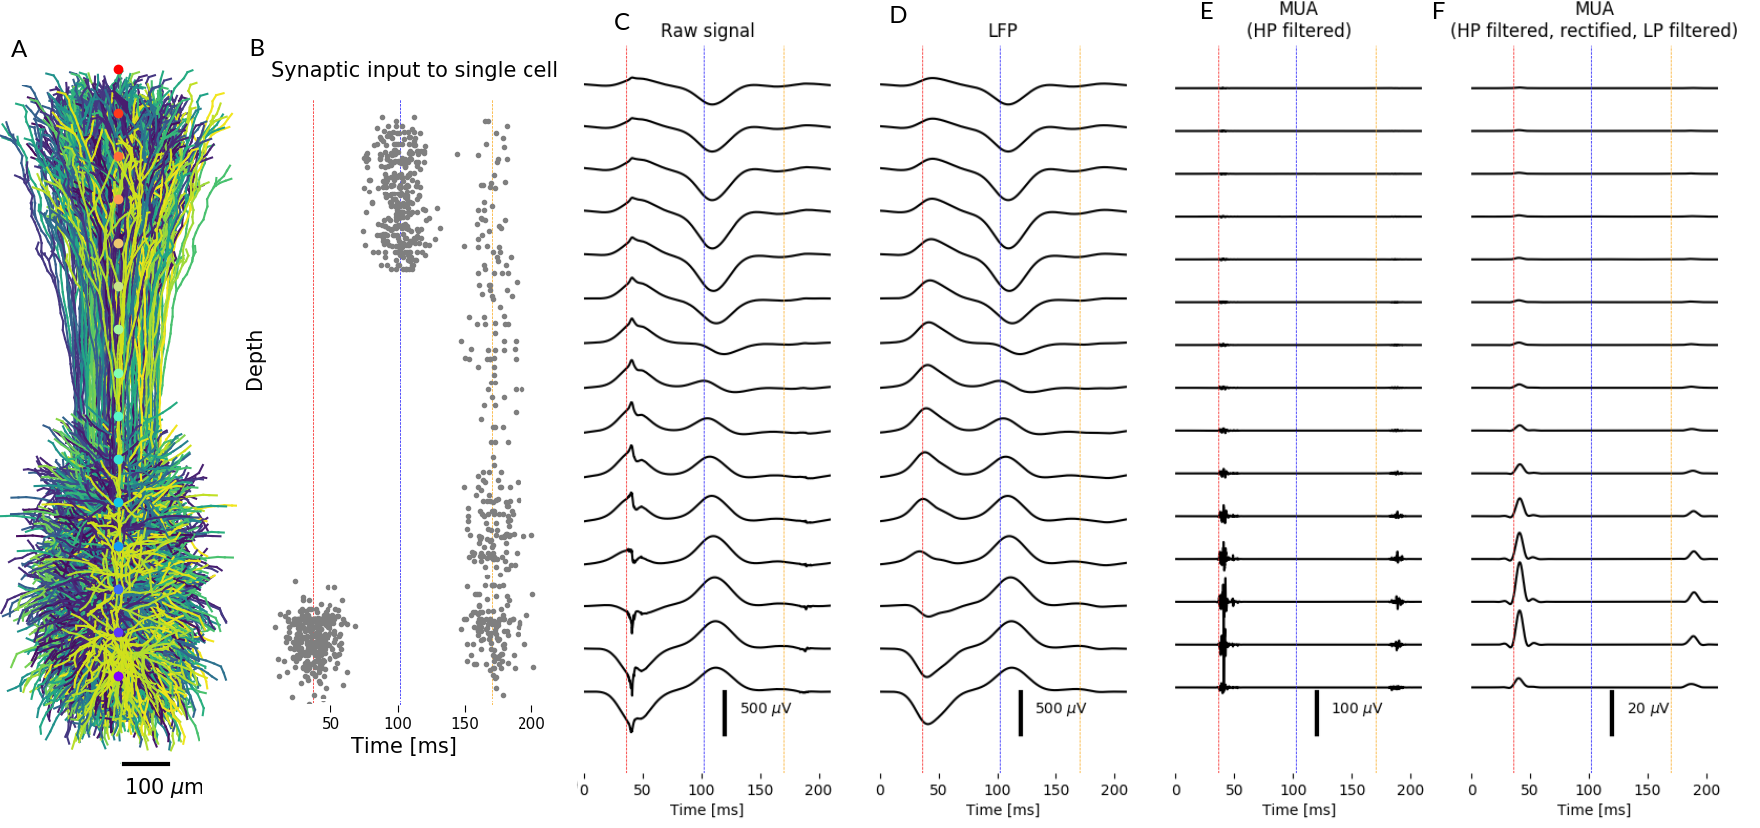
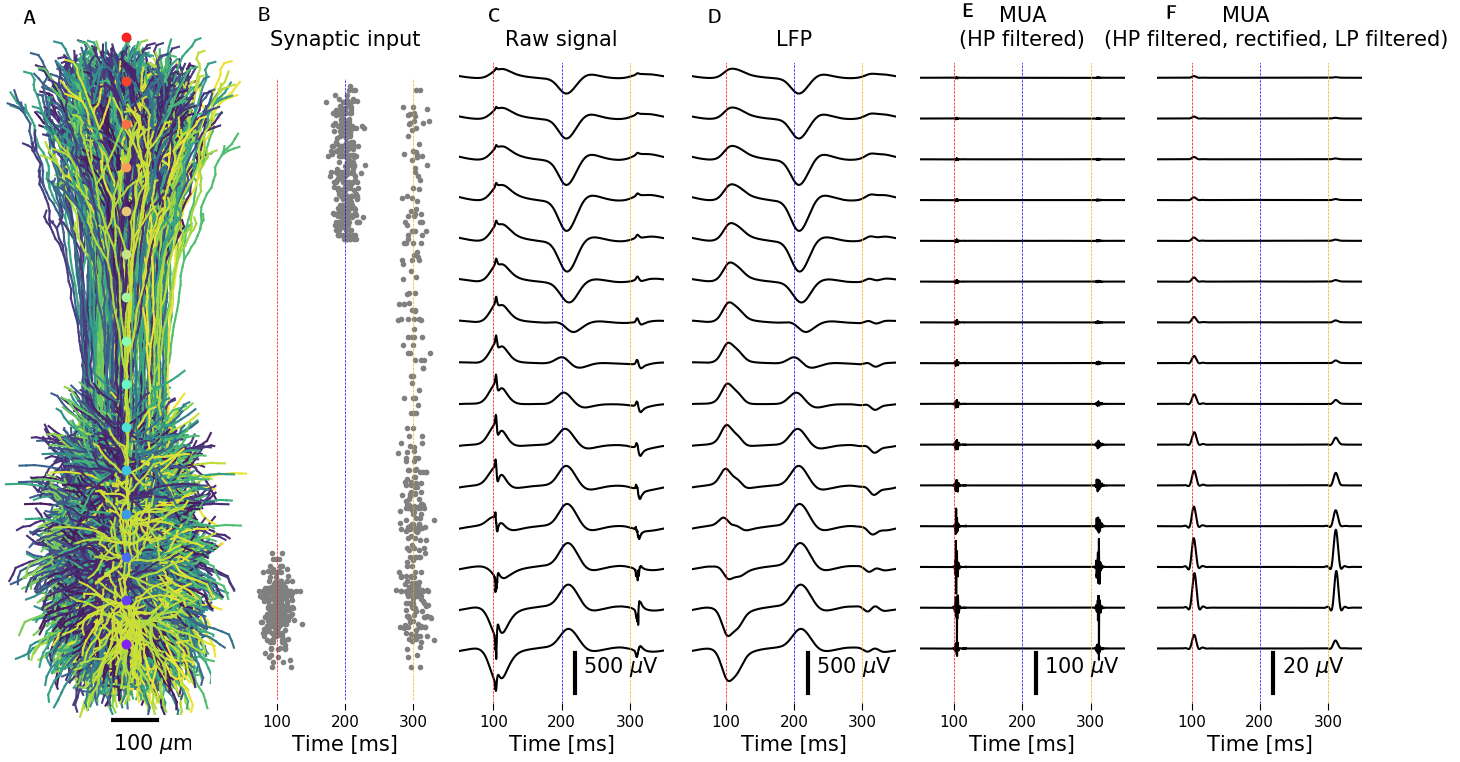
Updated figure

diff --git a/ECS_bookchapter.tex b/ECS_bookchapter.tex
@@ -439,7 +439,7 @@ The low frequency part, that is, the local field potential (LFP), is thought to 
 \end{center}
 \caption{\textbf{Extracellular potentials from different waves of synaptic input}. Different brain signals from separate waves of synaptic input to 10 000 layer 5 pyramidal cells from rat \citep{Hay2011}.
 {\bf A}: A subset of 100 pyramidal cells, with the LFP electrode locations indicated in the center (colored dots).
-{\bf B}: Depth-resolved synaptic inputs arrive in three waves, first targeting the basal dendrites (t=$\sim$60~ms), then the apical dendrites (t=$\sim$130~ms), and lastly uniformly across the entire depth (t=$\sim$200~ms). Note that all synaptic input is pre-defined, that is, there is no network activity.
+{\bf B}: Depth-resolved synaptic inputs arrive in three waves, first targeting the basal dendrites (t=100~ms), then the apical dendrites (t=200~ms), and lastly uniformly across the entire depth (t=$\sim$300~ms). Note that all synaptic input is pre-defined, that is, there is no network activity.
 {\bf C}: The extracellular potential at different depths (colors correspond to dots in panel A), including both spikes and synaptic input.
 {\bf D}: The LFP, that is, a low-pass filtered version of the raw signal in C.
 {\bf E}: The MUA, that is, a high-pass filtered version of the raw signal in C.
